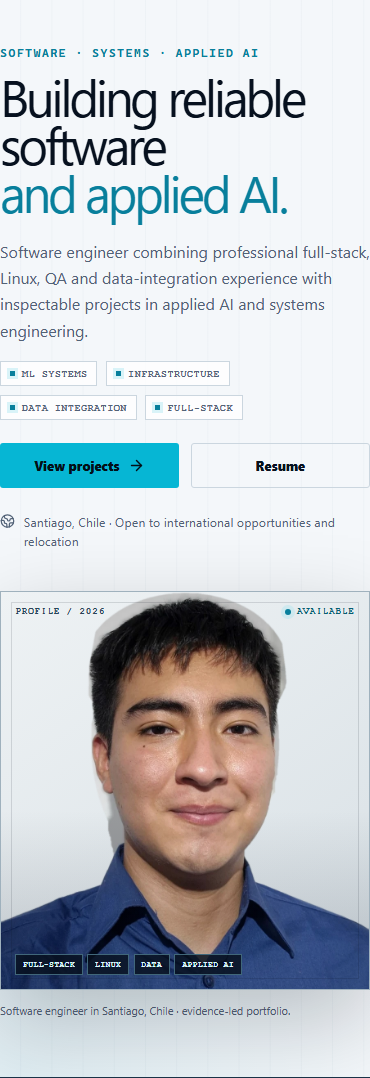
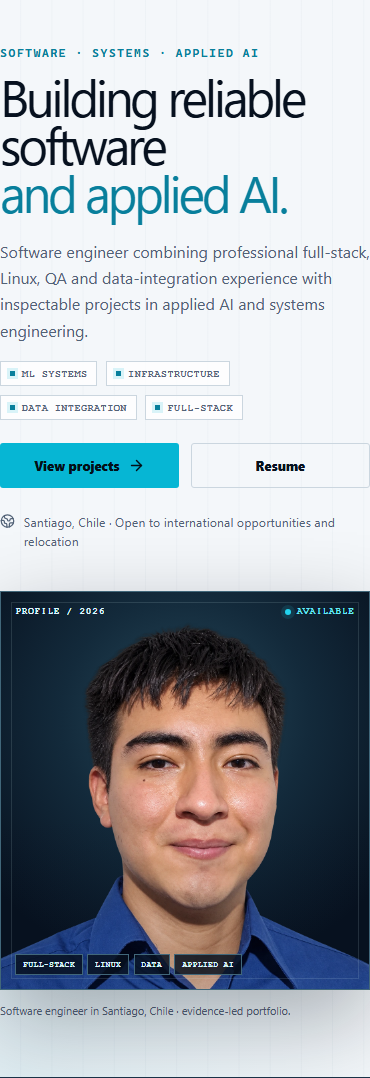
fix: replace portrait with clean transparent cutout

diff --git a/src/styles.css b/src/styles.css
@@ -96,15 +96,15 @@ a { color: inherit; }
 .evidence-visual figcaption { margin-top: .8rem; color: var(--muted); font-size: .72rem; line-height: 1.5; }
 
 .hero-portrait { width: min(100%, 570px); justify-self: end; margin: 0; }
-.portrait-frame { position: relative; overflow: hidden; min-height: 500px; background: linear-gradient(145deg, #eef2f4, #d8e0e5); border: 1px solid #9fb1bd; box-shadow: 0 28px 80px rgb(3 11 20 / .22); isolation: isolate; }
-.portrait-frame::before { position: absolute; inset: 10px; z-index: 3; content: ''; border: 1px solid rgb(7 17 31 / .13); pointer-events: none; }
+.portrait-frame { position: relative; overflow: hidden; min-height: 500px; background: radial-gradient(circle at 50% 32%, #284a5b 0, #132a3b 38%, #07111f 78%); border: 1px solid #41677a; box-shadow: 0 28px 80px rgb(3 11 20 / .3); isolation: isolate; }
+.portrait-frame::before { position: absolute; inset: 10px; z-index: 3; content: ''; border: 1px solid rgb(215 244 250 / .13); pointer-events: none; }
 .portrait-frame::after { position: absolute; inset: 0; z-index: 1; content: ''; background: linear-gradient(180deg, transparent 55%, rgb(7 17 31 / .18)); pointer-events: none; }
 .portrait-frame img { position: relative; z-index: 0; display: block; width: 100%; height: 100%; min-height: 500px; object-fit: contain; object-position: center bottom; }
 .portrait-frame img { opacity: 0; transform: scale(1.025); transition: opacity .55s ease, transform .8s cubic-bezier(.2,.75,.2,1); }.portrait-frame.image-loaded img { opacity: 1; transform: scale(1); }
-.portrait-loader { position: absolute; inset: 0; z-index: 2; background: linear-gradient(105deg, transparent 25%, rgb(255 255 255 / .5) 43%, transparent 62%) 200% 0 / 200% 100%, linear-gradient(145deg, #dbe4e8, #cbd7dd); animation: portrait-loading 1.25s linear infinite; transition: opacity .35s ease; }.portrait-frame.image-loaded .portrait-loader { opacity: 0; pointer-events: none; }
-.portrait-status { position: absolute; z-index: 4; top: 1.25rem; right: 1.25rem; left: 1.25rem; display: flex; justify-content: space-between; color: #294557; font: 800 .58rem ui-monospace, monospace; letter-spacing: .09em; }
-.portrait-status .trace-state { color: #075d73; }
-.portrait-status .trace-state::before { background: #087f9c; border-color: #e9f0f3; }
+.portrait-loader { position: absolute; inset: 0; z-index: 2; background: linear-gradient(105deg, transparent 25%, rgb(103 232 249 / .16) 43%, transparent 62%) 200% 0 / 200% 100%, linear-gradient(145deg, #142c3d, #07111f); animation: portrait-loading 1.25s linear infinite; transition: opacity .35s ease; }.portrait-frame.image-loaded .portrait-loader { opacity: 0; pointer-events: none; }
+.portrait-status { position: absolute; z-index: 4; top: 1.25rem; right: 1.25rem; left: 1.25rem; display: flex; justify-content: space-between; color: #dff9ff; font: 800 .58rem ui-monospace, monospace; letter-spacing: .09em; }
+.portrait-status .trace-state { color: #67e8f9; }
+.portrait-status .trace-state::before { background: #22d3ee; border-color: #07111f; }
 .portrait-proof { position: absolute; z-index: 4; right: 1.25rem; bottom: 1.25rem; left: 1.25rem; display: flex; flex-wrap: wrap; gap: .35rem; }
 .portrait-proof span { padding: .36rem .48rem; color: #dff9ff; background: rgb(7 17 31 / .84); border: 1px solid #41677a; font: 700 .57rem ui-monospace, monospace; letter-spacing: .06em; }
 .hero-portrait figcaption { margin-top: .8rem; color: var(--muted); font-size: .72rem; line-height: 1.5; }

diff --git a/tests/e2e/site.spec.ts b/tests/e2e/site.spec.ts
@@ -48,6 +48,20 @@ test('portrait and direct contact links are visible and correctly targeted', asy
   const portrait = page.getByRole('img', { name: 'Portrait of Sebastián Astroza wearing a blue shirt' })
   await expect(portrait).toBeVisible()
   await expect(portrait).toHaveJSProperty('complete', true)
+  await expect(portrait).toHaveAttribute('src', '/assets/sebastian-astroza-portrait-v2.webp')
+  const transparentTopCorners = await portrait.evaluate((element) => {
+    const image = element as HTMLImageElement
+    const canvas = document.createElement('canvas')
+    canvas.width = image.naturalWidth
+    canvas.height = image.naturalHeight
+    const context = canvas.getContext('2d')!
+    context.drawImage(image, 0, 0)
+    return [
+      context.getImageData(0, 0, 1, 1).data[3],
+      context.getImageData(canvas.width - 1, 0, 1, 1).data[3],
+    ]
+  })
+  expect(transparentTopCorners).toEqual([0, 0])
   if (testInfo.project.name.includes('mobile')) {
     const box = await portrait.boundingBox()
     expect(box).not.toBeNull()

diff --git a/src/App.tsx b/src/App.tsx
@@ -199,11 +199,12 @@ function HeroPortrait({ language }: { language: Language }) {
       <div className="portrait-status"><span>PROFILE / 2026</span><span className="trace-state">AVAILABLE</span></div>
       <span className="portrait-loader" aria-hidden="true"/>
       <img
-        src="/assets/sebastian-astroza-portrait.webp"
+        src="/assets/sebastian-astroza-portrait-v2.webp"
         alt={language === 'en' ? 'Portrait of Sebastián Astroza wearing a blue shirt' : 'Retrato de Sebastián Astroza con camisa azul'}
-        width="900"
-        height="1059"
+        width="1102"
+        height="1427"
         fetchPriority="high"
+        decoding="async"
         onLoad={() => setLoaded(true)}
       />
       <div className="portrait-proof" aria-label={language === 'en' ? 'Professional focus' : 'Enfoque profesional'}>

diff --git a/src/App.test.tsx b/src/App.test.tsx
@@ -60,7 +60,7 @@ describe('portfolio interactions', () => {
 
   it('shows the professional portrait and exact contact destinations', () => {
     render(<App />)
-    expect(screen.getByRole('img', { name: 'Portrait of Sebastián Astroza wearing a blue shirt' })).toHaveAttribute('src', '/assets/sebastian-astroza-portrait.webp')
+    expect(screen.getByRole('img', { name: 'Portrait of Sebastián Astroza wearing a blue shirt' })).toHaveAttribute('src', '/assets/sebastian-astroza-portrait-v2.webp')
     expect(screen.getByRole('link', { name: /sebastroza10@gmail.com/i })).toHaveAttribute('href', 'mailto:sebastroza10@gmail.com')
     expect(screen.getByRole('link', { name: /LinkedIn — Sebastián Astroza/i })).toHaveAttribute('href', 'https://www.linkedin.com/in/sebastian-a-677745276/')
   })
